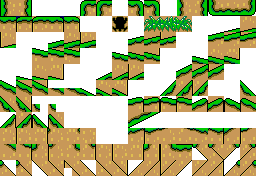
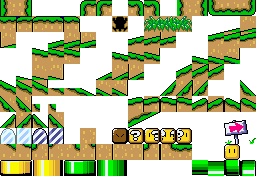
Completado el nivel de superficie.

Changed region(s): [[0.0, 0.6818, 1.0, 1.0], [0.0, 0.7102, 0.3125, 0.8239]]

diff --git a/src/utilidades/Archivos.java b/src/utilidades/Archivos.java
@@ -37,7 +37,7 @@ public class Archivos {
     static final int KOOPA_ROJO = 15;
     static final int SPINY = 20;
     public static ArrayList<Enemigo> getEnemigos(){
-        BufferedImage img = cargarImagen(ImagenURL.INFO_NIVEL_CAVERNA);
+        BufferedImage img = cargarImagen(ImagenURL.INFO_NIVEL_UNO);
         ArrayList<Enemigo> lista = new ArrayList();
         for (int j = 0; j < img.getHeight(); ++j)
             for (int i = 0; i < img.getWidth(); ++i){
@@ -57,7 +57,7 @@ public class Archivos {
     // El valor del color rojo de cada pixel del mapa de bits representa un bloque del nivel
 
     public static int[][] informacionDelNivel() {
-        BufferedImage img = cargarImagen(ImagenURL.INFO_NIVEL_CAVERNA);
+        BufferedImage img = cargarImagen(ImagenURL.INFO_NIVEL_UNO);
         int[][] infoNivel = new int[img.getHeight()][img.getWidth()];
 
         for (int j = 0; j < img.getHeight(); ++j)

diff --git a/src/niveles/ManejaNiveles.java b/src/niveles/ManejaNiveles.java
@@ -25,7 +25,7 @@ public class ManejaNiveles {
     }
 
     public void cargarSpritesNivel() {
-        BufferedImage img = cargarImagen(ImagenURL.NIVEL_CAVERNA);
+        BufferedImage img = cargarImagen(ImagenURL.NIVEL_SUPERFICIE);
         nivelSprites = new BufferedImage[16*11];
         for (int j = 0; j < 11; j++) {
             for (int i = 0; i < 16; i++) {
@@ -33,7 +33,7 @@ public class ManejaNiveles {
                 nivelSprites[indice] = img.getSubimage(i * 16, j * 16, 16, 16);
             }
         }
-        fondo = cargarImagen(ImagenURL.FONDO_CAVERNA);
+        fondo = cargarImagen(ImagenURL.FONDO);
     }
 
     public void render(Graphics g, int lvlOffset) {
